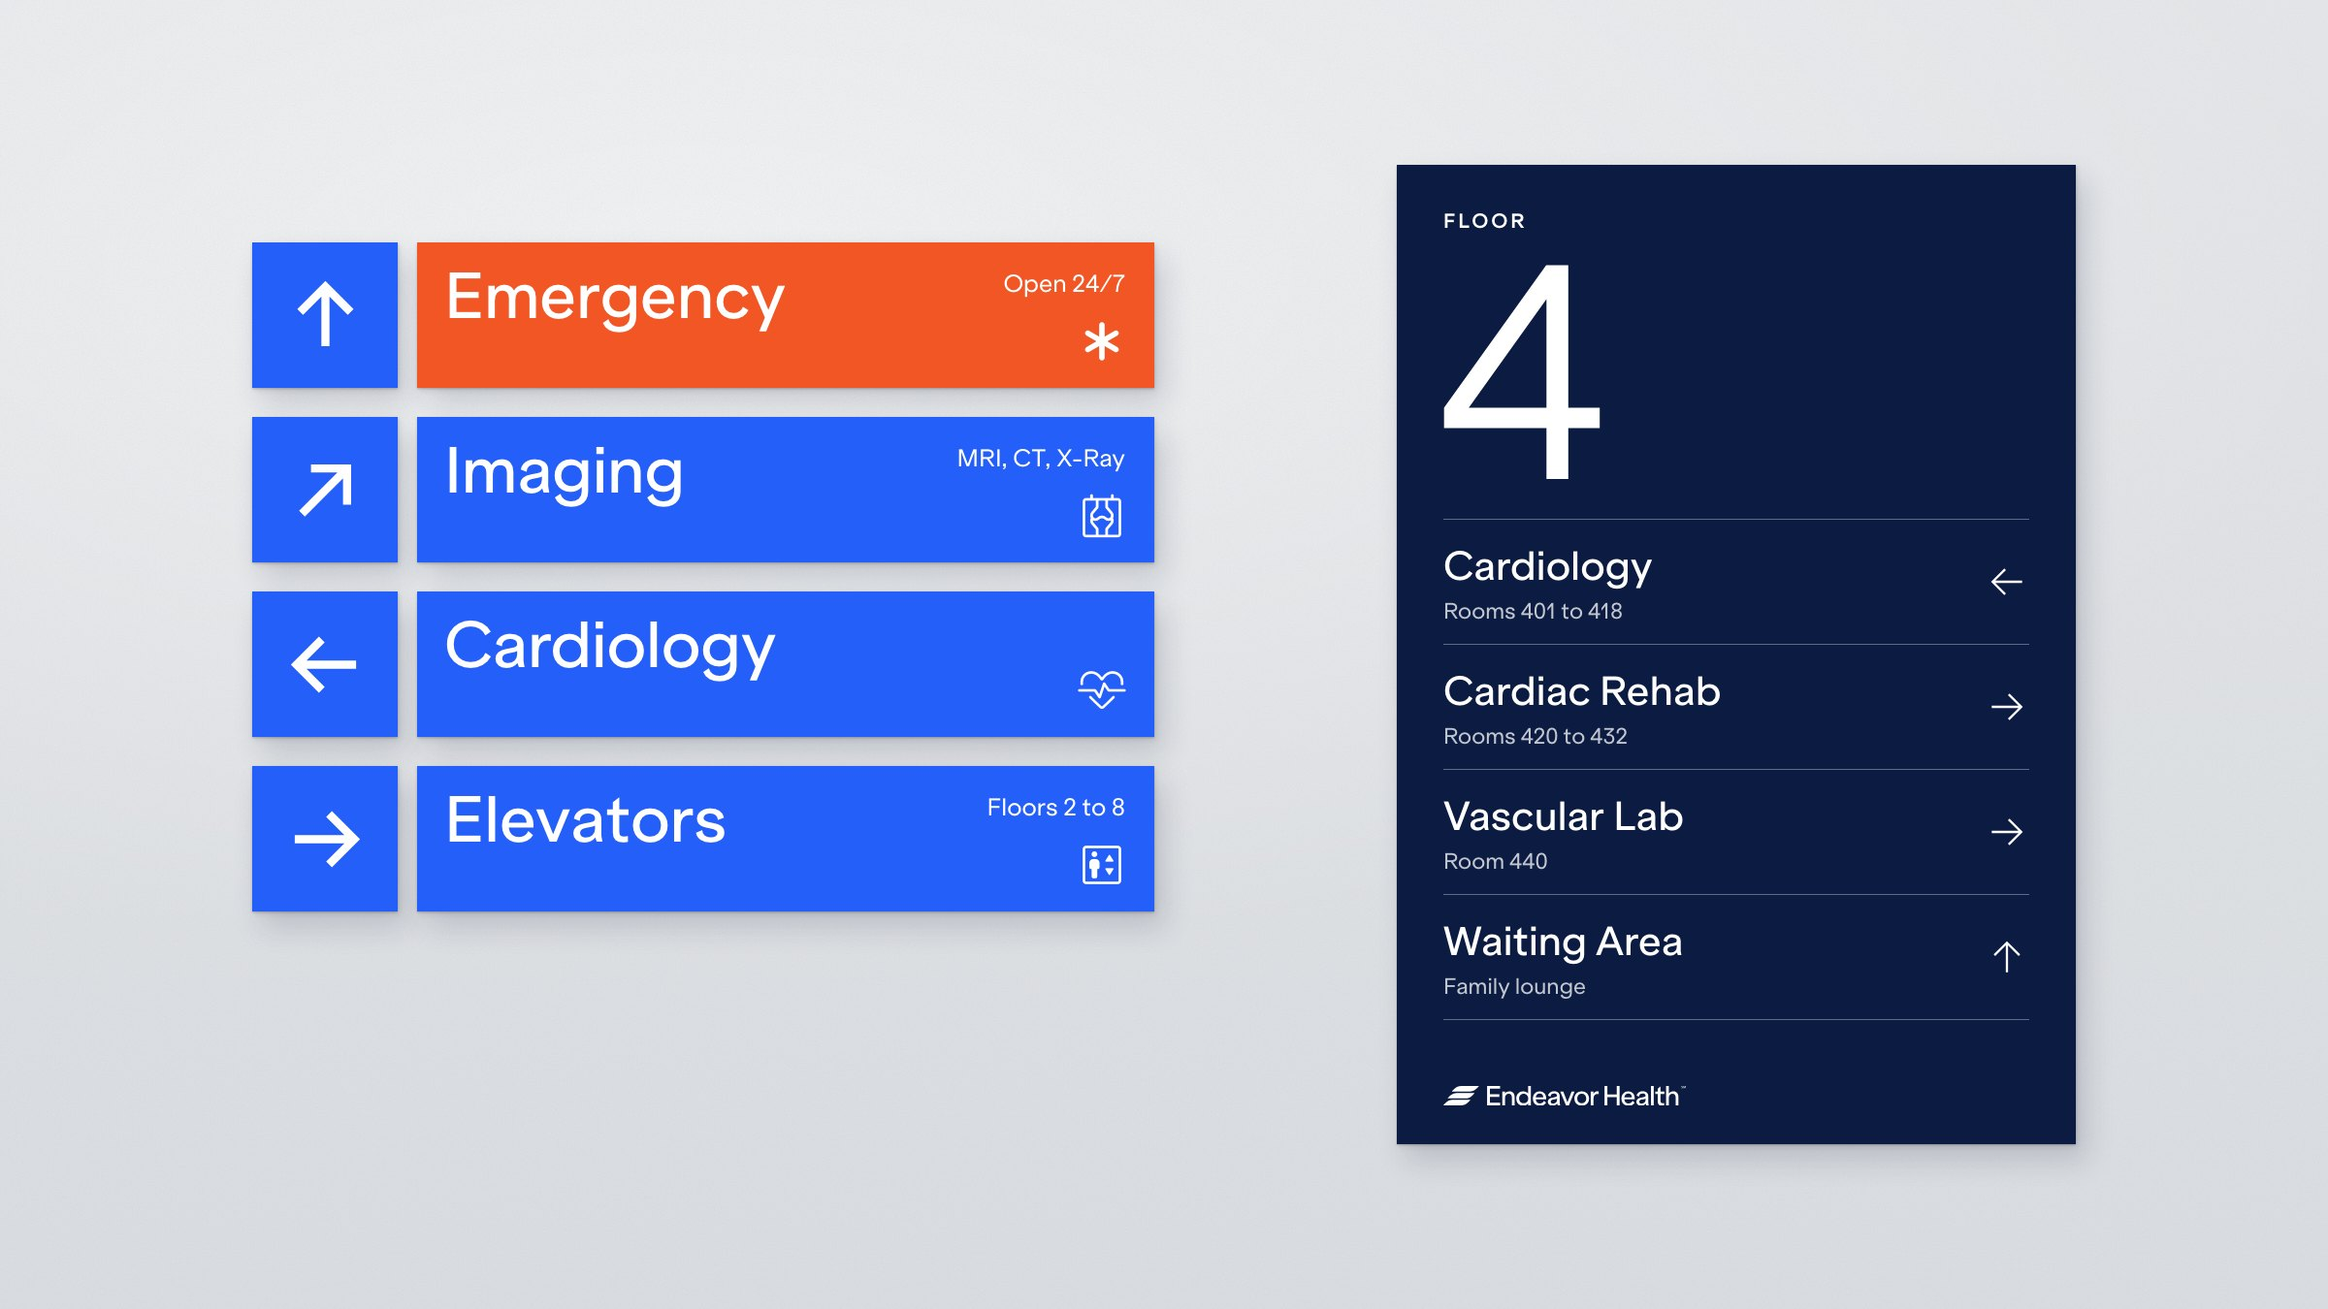
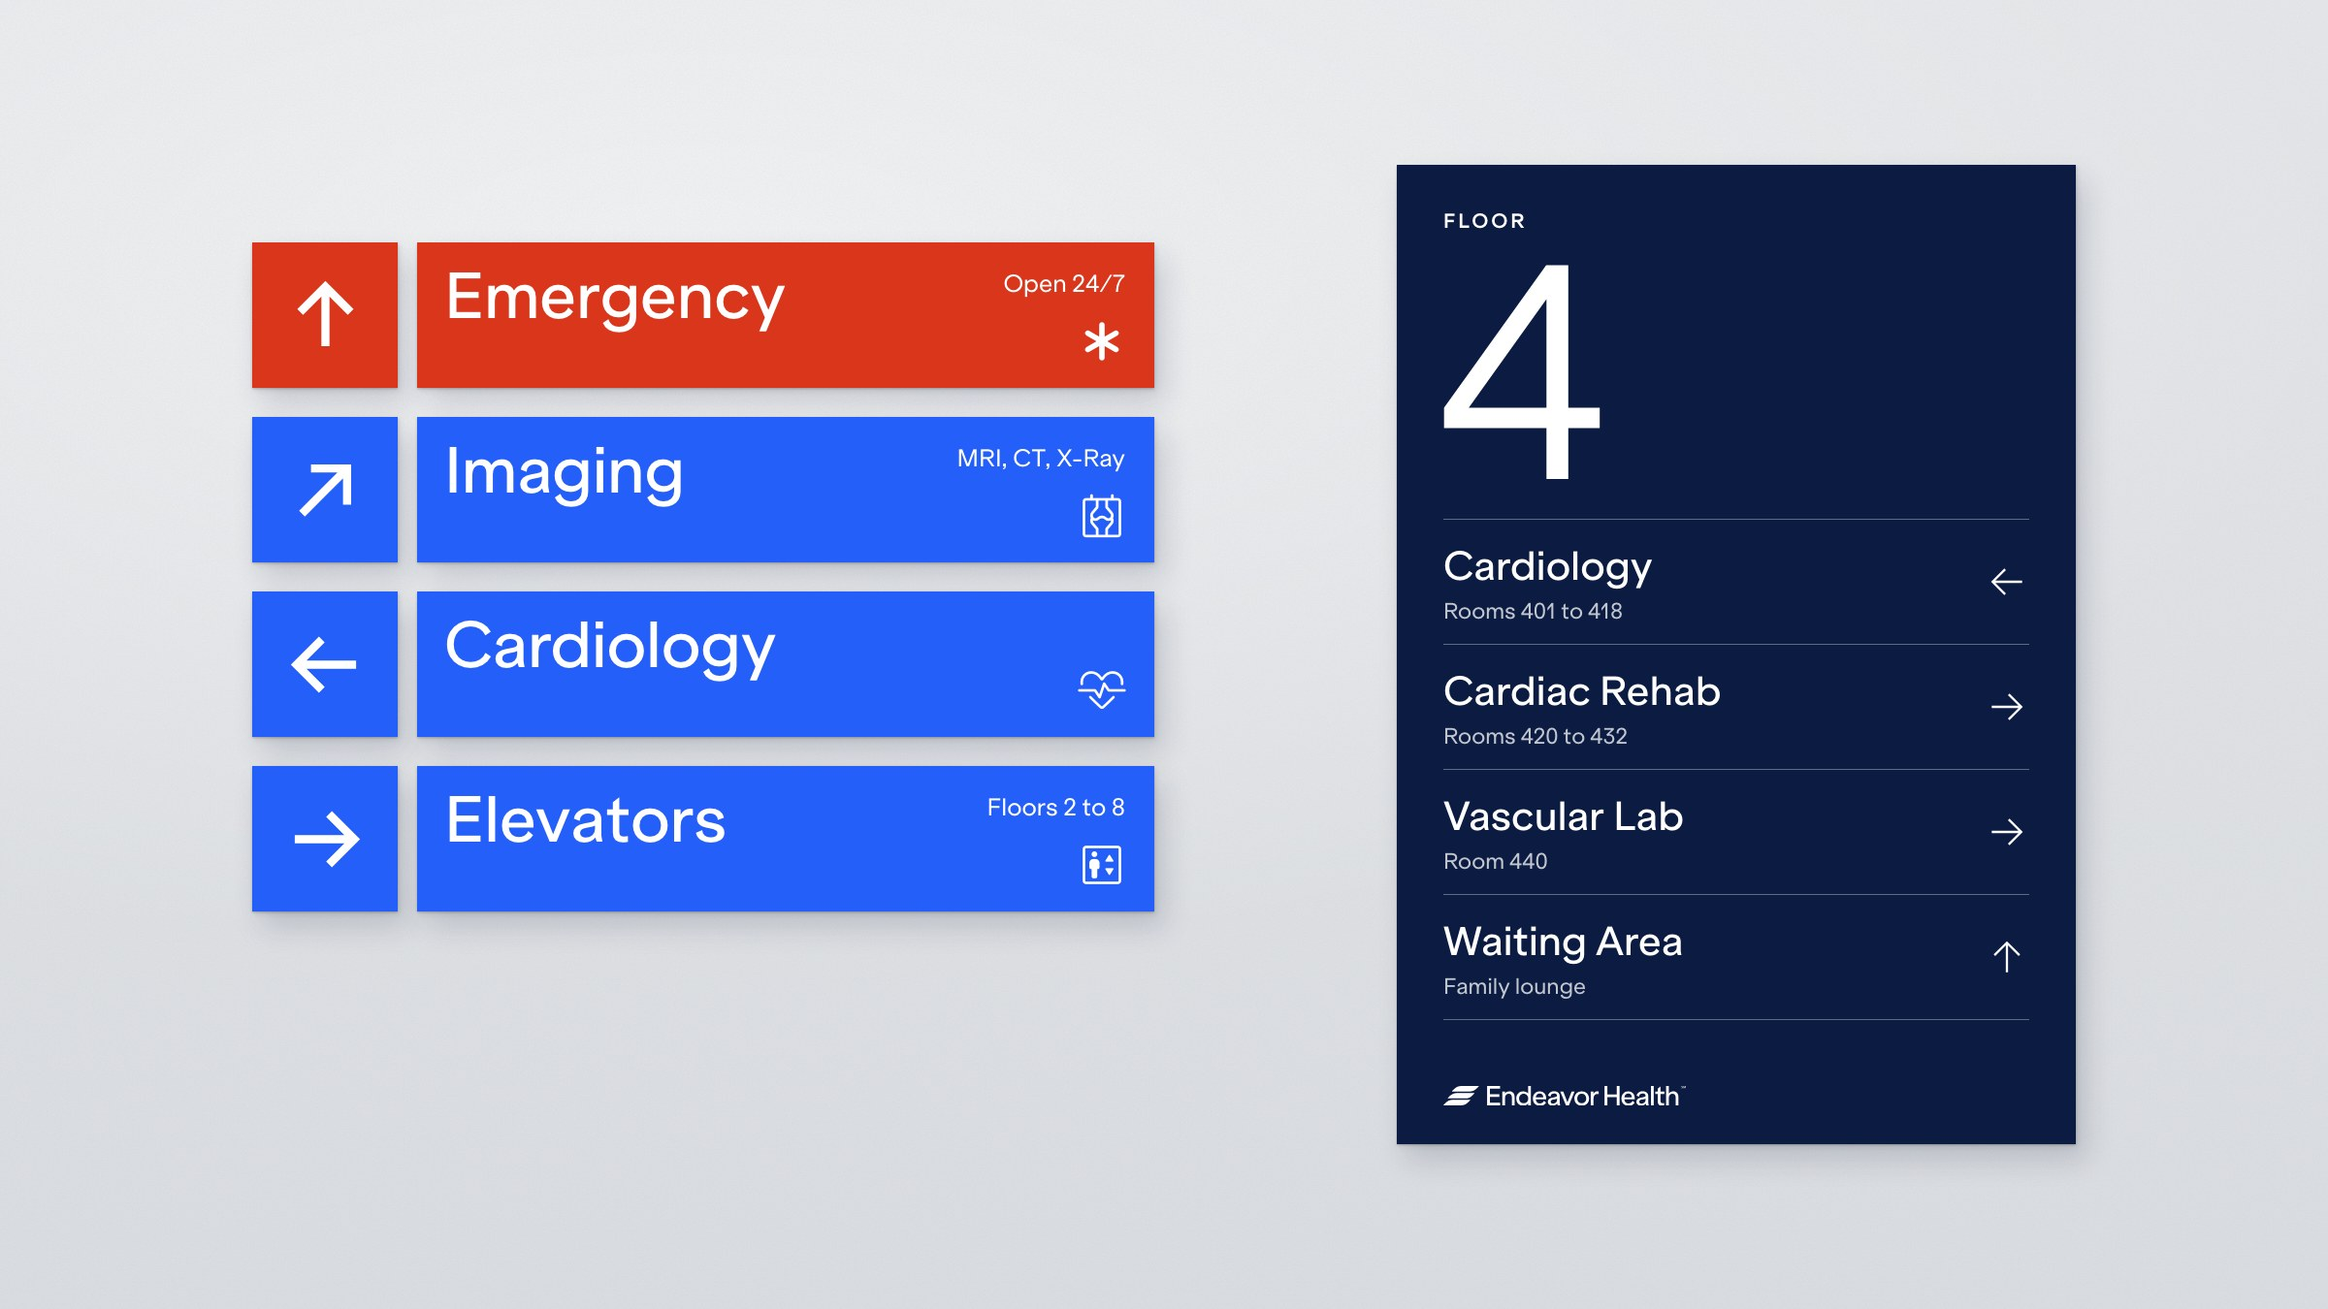
Use Emergency Red for emergency wayfinding and add wayfinding color guideline page

Changed region(s): [[0.0938, 0.1867, 0.5, 0.3111]]

diff --git a/tools/wayfinding/signs.html b/tools/wayfinding/signs.html
@@ -6,7 +6,7 @@
 @font-face{font-family:KL;font-weight:400;src:url("file:///Users/kennyphillips/Library/Fonts/ES%20Klarheit/ESKlarheitGrotesk-Bk.ttf")}
 @font-face{font-family:KL;font-weight:500;src:url("file:///Users/kennyphillips/Library/Fonts/ES%20Klarheit/ESKlarheitGrotesk-Md.ttf")}
 @font-face{font-family:KL;font-weight:700;src:url("file:///Users/kennyphillips/Library/Fonts/ES%20Klarheit/ESKlarheitGrotesk-Bd.otf")}
-:root{--blue:#235FF8;--sea:#0B1B42;--azure:#E1F5FC;--tangelo:#F15624;--sun:#FFCF30}
+:root{--blue:#235FF8;--sea:#0B1B42;--azure:#E1F5FC;--tangelo:#F15624;--sun:#FFCF30;--emergency:#D9361C}
 *{box-sizing:border-box;margin:0;padding:0}
 body{background:#fff;font-family:KL,sans-serif;color:#fff;-webkit-font-smoothing:antialiased}
 .ms{font-family:'Material Symbols Rounded';font-weight:300;font-style:normal;line-height:1;letter-spacing:normal;text-transform:none;white-space:nowrap;direction:ltr;-webkit-font-feature-settings:'liga';font-variation-settings:'FILL' 0,'wght' 300,'GRAD' 0,'opsz' 48}
@@ -32,7 +32,7 @@ body{background:#fff;font-family:KL,sans-serif;color:#fff;-webkit-font-smoothing
 .panel .name{font-weight:500;font-size:64px;letter-spacing:-.005em;line-height:1}
 .panel .meta{font-weight:400;font-size:24px;position:absolute;top:26px;right:30px}
 .panel .ico{position:absolute;right:26px;bottom:20px;font-size:56px}
-.panel.t{background:var(--tangelo)}
+.panel.t{background:var(--emergency)}
 .panel.sea{background:var(--sea)}
 
 /* ---------- directory ---------- */
@@ -83,7 +83,7 @@ body{background:#fff;font-family:KL,sans-serif;color:#fff;-webkit-font-smoothing
 <!-- ===================== COMPOSITION 1: lobby wall ===================== -->
 <div id="c-lobby" class="wall" style="width:2400px;height:1350px">
   <!-- directional stack -->
-  <div class="sign arrow" style="left:260px;top:250px;width:150px;height:150px"><svg><use href="#a-up"/></svg></div>
+  <div class="sign arrow" style="left:260px;top:250px;width:150px;height:150px;background:var(--emergency)"><svg><use href="#a-up"/></svg></div>
   <div class="sign panel t" style="left:430px;top:250px;width:760px;height:150px"><div class="name">Emergency</div><div class="meta">Open 24/7</div><span class="ms ico">emergency</span></div>
 
   <div class="sign arrow" style="left:260px;top:430px;width:150px;height:150px"><svg><use href="#a-ne"/></svg></div>
@@ -139,7 +139,7 @@ body{background:#fff;font-family:KL,sans-serif;color:#fff;-webkit-font-smoothing
     <div class="name">Emergency<br>Entrance</div>
     <div class="circle"><span class="ms">emergency</span></div>
   </div>
-  <div class="sign arrow" style="left:615px;top:140px;width:140px;height:140px;background:var(--tangelo)"><svg><use href="#a-r"/></svg></div>
+  <div class="sign arrow" style="left:615px;top:140px;width:140px;height:140px;background:var(--emergency)"><svg><use href="#a-r"/></svg></div>
   <div class="sign arrow" style="left:85px;top:140px;width:140px;height:140px"><svg><use href="#a-l"/></svg></div>
 </div>
 
@@ -154,6 +154,60 @@ body{background:#fff;font-family:KL,sans-serif;color:#fff;-webkit-font-smoothing
   </div>
 </div>
 
+
+<!-- ===================== GUIDELINE PAGE: wayfinding color (brandbook spread, 1100x850) ===================== -->
+<style>
+#g-color{width:1100px;height:850px;position:relative;background:#fff;color:#111;font-family:KL,sans-serif;overflow:hidden}
+#g-color .eb{position:absolute;left:25px;top:22px;font-weight:700;font-size:9px;letter-spacing:.06em;text-transform:uppercase}
+#g-color h1{position:absolute;left:25px;top:68px;font-weight:300;font-size:34px;line-height:1.15;letter-spacing:-.005em}
+#g-color .body{position:absolute;left:25px;top:228px;width:318px;font-weight:400;font-size:15px;line-height:1.48}
+#g-color .body p+p{margin-top:14px}
+#g-color .logo{position:absolute;left:25px;bottom:22px;width:155px;fill:#111}
+#g-color .logo .mk{fill:#235FF8}
+#g-color .rule{position:absolute;left:378px;top:0;bottom:0;width:1px;background:#d8d8d8}
+#g-color .sw{position:absolute;color:#fff;padding:14px 14px}
+#g-color .sw .nm{font-weight:400;font-size:17px}
+#g-color .sw .role{font-weight:400;font-size:11px;margin-top:4px;opacity:.9}
+#g-color .sw .spec{position:absolute;left:14px;bottom:14px;font-size:11px;line-height:1.75;font-weight:400}
+#g-color .demo{position:absolute;left:379px;top:560px;width:721px;height:290px;background:#E1F5FC}
+#g-color .demo .cap{position:absolute;left:0;right:0;bottom:22px;text-align:center;font-size:12px;color:#0B1B42}
+#g-color .chip{position:absolute;font-size:11px;font-weight:400;color:#0B1B42}
+</style>
+<div id="g-color">
+  <div class="eb">9 Applications</div>
+  <h1>Wayfinding<br>color</h1>
+  <div class="body">
+    <p>Wayfinding uses the core palette with one addition. Emergency Red is reserved for emergency wayfinding only.</p>
+    <p>It marks the Emergency department, emergency entrances, and every route that leads to them, so the one destination that has to be found fastest never competes with anything else on the wall.</p>
+    <p>Pair it with white type and white icons only. White on Emergency Red passes WCAG AA at 4.67 to 1. Never use it for general departments, marketing, or decoration.</p>
+  </div>
+  <img class="logo" src="../../images/endeavor-logo.svg" alt="">
+  <div class="rule"></div>
+
+  <div class="sw" style="left:379px;top:0;width:361px;height:560px;background:#D9361C">
+    <div class="nm">Emergency Red</div><div class="role">(Wayfinding only)</div>
+    <div class="spec">HEX #D9361C<br>RGB 217/54/28<br>CMYK 0/75/87/15<br>Pantone C 485 C (nearest)</div>
+  </div>
+  <div class="sw" style="left:740px;top:0;width:180px;height:560px;background:#235FF8">
+    <div class="nm">Endeavor Blue</div><div class="role">(Directional)</div>
+    <div class="spec">HEX #235FF8<br>Pantone C 285 C</div>
+  </div>
+  <div class="sw" style="left:920px;top:0;width:180px;height:560px;background:#0B1B42">
+    <div class="nm">Deep Sea</div><div class="role">(Directories, overhead)</div>
+    <div class="spec">HEX #0B1B42<br>Pantone C 2767 C</div>
+  </div>
+
+  <div class="demo">
+    <div style="position:absolute;left:130px;top:58px;width:84px;height:84px;background:#D9361C;display:flex;align-items:center;justify-content:center"><svg viewBox="0 0 100 100" style="width:62%;height:62%;stroke:#fff;fill:none;stroke-width:9"><use href="#a-up"/></svg></div>
+    <div style="position:absolute;left:224px;top:58px;width:370px;height:84px;background:#D9361C;color:#fff;padding:12px 16px">
+      <div style="font-weight:500;font-size:34px;line-height:1">Emergency</div>
+      <div style="position:absolute;top:14px;right:16px;font-size:12px">Open 24/7</div>
+      <span class="ms" style="position:absolute;right:12px;bottom:8px;font-size:30px;color:#fff">emergency</span>
+    </div>
+    <div class="chip" style="left:130px;top:156px">Arrow module and panel, both in Emergency Red</div>
+    <div class="cap">Emergency Red appears only on emergency signage, with white type and icons</div>
+  </div>
+</div>
 <!-- logo symbol (white via fill) -->
 <svg width="0" height="0" style="position:absolute"><defs><symbol id="eh-logo" viewBox="0 0 1243 102"><path d="M12.0367 85.659L0.358168 97.3602C-0.407741 98.1276 0.135596 99.4459 1.22227 99.4459H90.5064C103.677 99.4459 116.312 94.2053 125.627 84.8719L137.305 73.1707C138.071 72.4033 137.528 71.085 136.441 71.085H47.1572C33.9862 71.085 21.352 76.3256 12.0367 85.659Z"/><path d="M55.772 14.783L44.0935 26.4842C43.3276 27.2516 43.871 28.57 44.9576 28.57H134.242C147.413 28.57 160.047 23.3294 169.362 13.9959L181.041 2.29474C181.807 1.52734 181.263 0.208984 180.177 0.208984H90.8926C77.7215 0.208984 65.0873 5.4496 55.772 14.783Z"/><path d="M33.8681 50.2264L22.1897 61.9276C21.4237 62.695 21.9671 64.0133 23.0538 64.0133H112.338C125.509 64.0133 138.143 58.7727 147.458 49.4393L159.137 37.7381C159.903 36.9707 159.36 35.6523 158.273 35.6523H68.9887C55.8177 35.6523 43.1834 40.893 33.8681 50.2264Z"/><path d="M223.86 0.144531H290.474V13.2494H238.425V42.7057H286.704V55.6793H238.425V86.3491H290.749V99.4539H223.866V0.144531H223.86Z"/><path d="M301.904 29.1872H315.926V38.9142C320.784 30.945 328.201 26.8916 338.714 26.8916C355.708 26.8916 365.141 37.832 365.141 56.0725V99.4404H351.119V58.7748C351.119 45.9389 345.862 39.7275 334.937 39.7275C323.206 39.7275 315.92 48.1033 315.92 61.3459V99.4469H301.898V29.1872H301.904Z"/><path d="M373.559 64.3172C373.559 43.2432 387.719 26.8917 409.027 26.8917C420.352 26.8917 428.849 31.483 434.38 38.3765V0.137695H448.403V99.4471H434.511V89.8513C428.98 96.8759 420.352 101.474 409.027 101.474C387.856 101.474 373.559 85.26 373.559 64.3172ZM434.917 64.3172C434.917 50.1302 425.209 39.5899 411.456 39.5899C397.702 39.5899 387.994 50.2613 387.994 64.3172C387.994 78.3731 397.165 88.6379 411.456 88.6379C425.746 88.6379 434.917 78.3665 434.917 64.3172Z"/><path d="M458.588 64.4548C458.588 42.8365 473.285 26.8916 493.512 26.8916C513.74 26.8916 527.088 41.6165 527.088 63.1037C527.088 64.8615 527.088 66.6193 526.82 68.7772H473.285C474.771 82.8265 483.536 89.451 494.724 89.451C505.106 89.451 511.848 85.2599 515.757 76.3462L526.139 85.3976C519.534 96.4757 507.26 101.474 494.449 101.474C472.604 101.474 458.582 86.2044 458.582 64.4548H458.588ZM512.123 58.2369V58.0992C512.123 46.3455 504.844 38.9142 493.244 38.9142C483.399 38.9142 475.307 45.2633 473.422 58.2369H512.123Z"/><path d="M535.409 81.2064C535.409 69.1838 544.58 62.4281 559.545 59.7258C579.635 56.2102 582.601 55.4034 582.601 48.6477C582.601 41.2164 575.72 38.1074 567.092 38.1074C556.979 38.1074 549.424 43.781 549.424 54.3212L536.751 49.4545C538.636 36.0807 551.048 26.8916 567.092 26.8916C585.16 26.8916 596.354 35.2674 596.354 50.8056V85.9354L598.645 99.4469H586.371L583.268 90.5267C578.012 97.6891 568.971 101.474 559.132 101.474C545.11 101.474 535.402 93.5045 535.402 81.2064H535.409ZM582.607 71.2106V64.3171C580.584 66.0749 576.676 66.8816 563.322 69.4528C555.368 70.9416 550.242 73.7751 550.242 80.5308C550.242 86.2044 554.556 90.5267 562.242 90.5267C575.459 90.5267 582.601 82.1509 582.601 71.204L582.607 71.2106Z"/><path d="M599.032 29.1875H614.54L635.978 83.3646L657.417 29.1875H672.52L643.395 99.4472H628.424L599.025 29.1875H599.032Z"/><path d="M671.683 64.1862C671.683 42.1612 688.002 26.8984 709.304 26.8984C730.605 26.8984 747.193 42.1677 747.193 64.1862C747.193 86.2047 730.743 101.474 709.304 101.474C687.865 101.474 671.683 86.2047 671.683 64.1862ZM732.635 64.1862C732.635 49.3236 722.927 39.7343 709.304 39.7343C695.681 39.7343 686.11 49.3236 686.11 64.1862C686.11 79.0488 696.087 88.5069 709.304 88.5069C722.521 88.5069 732.635 79.0488 732.635 64.1862Z"/><path d="M755.533 29.1874H769.555V41.0788C774.949 30.2696 783.852 27.7051 790.726 27.7051C792.886 27.7051 794.234 27.8428 796.257 28.3807V42.5677C793.829 41.8921 791.675 41.4855 789.109 41.4855C777.646 41.4855 769.555 48.6479 769.555 65.3995V99.4471H755.533V29.1874Z"/><path d="M888.952 56.6173H840.811V99.4473H826.246V0.144531H840.811V43.6502H888.952V0.144531H903.517V99.4539H888.952V56.6238V56.6173Z"/><path d="M912.885 64.4548C912.885 42.8365 927.582 26.8916 947.809 26.8916C968.037 26.8916 981.385 41.6165 981.385 63.1037C981.385 64.8615 981.385 66.6193 981.117 68.7772H927.582C929.068 82.8265 937.833 89.451 949.021 89.451C959.403 89.451 966.145 85.2599 970.054 76.3462L980.436 85.3976C973.831 96.4757 961.557 101.474 948.746 101.474C926.901 101.474 912.879 86.2044 912.879 64.4548H912.885ZM966.42 58.2369V58.0992C966.42 46.3455 959.141 38.9142 947.541 38.9142C937.696 38.9142 929.604 45.2633 927.719 58.2369H966.42Z"/><path d="M989.705 81.2064C989.705 69.1838 998.876 62.4281 1013.84 59.7258C1033.93 56.2102 1036.9 55.4034 1036.9 48.6477C1036.9 41.2164 1030.02 38.1074 1021.39 38.1074C1011.27 38.1074 1003.72 43.781 1003.72 54.3212L991.047 49.4545C992.932 36.0807 1005.34 26.8916 1021.39 26.8916C1039.46 26.8916 1050.65 35.2674 1050.65 50.8056V85.9354L1052.94 99.4469H1040.67L1037.56 90.5267C1032.31 97.6891 1023.27 101.474 1013.43 101.474C999.407 101.474 989.698 93.5045 989.698 81.2064H989.705ZM1036.9 71.2106V64.3171C1034.88 66.0749 1030.97 66.8816 1017.62 69.4528C1009.66 70.9416 1004.54 73.7751 1004.54 80.5308C1004.54 86.2044 1008.85 90.5267 1016.54 90.5267C1029.75 90.5267 1036.9 82.1509 1036.9 71.204L1036.9 71.2106Z"/><path d="M1064.59 0.144531H1078.61V99.4539H1064.59V0.144531Z"/><path d="M1099.29 79.5866V41.4856H1086.75V29.1875H1099.29V13.5181L1113.31 2.84668V29.1941H1133.27V41.4921H1113.31V77.7042C1113.31 86.7556 1116.82 88.3756 1124.1 88.3756C1126.26 88.3756 1129.9 87.969 1132.05 87.4311V99.8604C1129.89 100.674 1124.23 101.212 1122.08 101.212C1107.24 101.212 1099.29 95.1314 1099.29 79.5932V79.5866Z"/><path d="M1142.04 0.144531H1156.06V38.7834C1160.37 31.621 1167.52 26.892 1178.84 26.892C1195.84 26.892 1205.27 37.8324 1205.27 56.0729V99.4408H1191.25V58.7752C1191.25 45.9393 1185.99 39.7279 1175.07 39.7279C1163.34 39.7279 1156.05 47.6971 1156.05 61.3463V99.4473H1142.03V0.144531H1142.04Z"/><path d="M1230.89 11.3831V0.0961948H1233.92L1236.95 8.78586L1240.07 0.0961948H1243V11.3831H1240.94V5.29076C1240.94 4.79909 1240.95 4.3288 1240.97 3.87989C1240.99 3.4096 1241.01 3.01413 1241.04 2.69348H1240.91L1237.65 11.3831H1235.95L1232.86 2.69348H1232.73C1232.77 3.0355 1232.79 3.43098 1232.79 3.87989C1232.81 4.3288 1232.83 4.77771 1232.83 5.22663V11.3831H1230.89ZM1223.65 11.4793C1222.94 11.4793 1222.25 11.4045 1221.59 11.2549C1220.92 11.1052 1220.41 10.9342 1220.04 10.7418V8.78586C1220.56 9.04239 1221.14 9.26684 1221.78 9.45923C1222.42 9.65162 1223.04 9.74782 1223.62 9.74782C1224.28 9.74782 1224.83 9.65162 1225.26 9.45923C1225.71 9.24546 1225.93 8.83931 1225.93 8.24076C1225.93 7.8346 1225.79 7.52463 1225.51 7.31086C1225.26 7.07572 1224.69 6.79782 1223.81 6.47717C1223.01 6.17789 1222.37 5.87862 1221.88 5.57934C1221.4 5.25869 1221.05 4.89529 1220.81 4.48913C1220.6 4.08297 1220.49 3.60199 1220.49 3.04619C1220.49 2.23388 1220.79 1.52844 1221.39 0.929891C1222.02 0.309964 1223 0 1224.36 0C1224.98 0 1225.6 0.0748185 1226.22 0.224455C1226.87 0.352716 1227.41 0.523731 1227.87 0.7375L1227.32 2.43695C1226.91 2.26594 1226.46 2.10561 1225.97 1.95598C1225.49 1.80634 1224.96 1.73152 1224.36 1.73152C1223.75 1.73152 1223.31 1.8384 1223.04 2.05217C1222.76 2.26594 1222.62 2.58659 1222.62 3.01413C1222.62 3.33478 1222.69 3.60199 1222.84 3.81576C1222.99 4.00815 1223.25 4.18985 1223.62 4.36087C1224 4.53188 1224.53 4.74565 1225.19 5.00217C1225.94 5.28007 1226.52 5.57934 1226.93 5.9C1227.34 6.19927 1227.63 6.5413 1227.8 6.92608C1227.97 7.28949 1228.06 7.72771 1228.06 8.24076C1228.06 8.98894 1227.88 9.60887 1227.51 10.1005C1227.17 10.5708 1226.66 10.9235 1226 11.1587C1225.33 11.3725 1224.55 11.4793 1223.65 11.4793Z"/></symbol></defs></svg>
 </body></html>

diff --git a/endeavor-health.html b/endeavor-health.html
@@ -184,7 +184,7 @@
   </div>
 
   <div class="case-note" style="padding-top: clamp(2rem, 5vw, 4rem);">
-    <p class="project-aa-body">Wayfinding has to work for someone who is scared, rushed, or both. Every sign is built from the same parts, a blue panel, a destination in Klarheit Medium, an icon in the corner, and a separate arrow module, so a direction can change without remaking the sign. Tangelo is held back for Emergency, the one place on campus that has to be found in&nbsp;seconds.</p>
+    <p class="project-aa-body">Wayfinding has to work for someone who is scared, rushed, or both. Every sign is built from the same parts, a blue panel, a destination in Klarheit Medium, an icon in the corner, and a separate arrow module, so a direction can change without remaking the sign. A dedicated Emergency Red, warmer and darker than the brand&rsquo;s Tangelo so white type stays legible, is held back for the one place on campus that has to be found in&nbsp;seconds.</p>
   </div>
 
   <div class="images">
@@ -200,6 +200,9 @@
       </picture>
       <picture>
         <img src="images/endeavor-wayfinding-overhead.jpg" alt="Endeavor Health overhead sign pointing to the main lobby, cardiology and elevators" />
+      </picture>
+      <picture>
+        <img src="images/endeavor-wayfinding-color.jpg" alt="Endeavor Health guideline page for wayfinding color, adding Emergency Red for emergency signage only" />
       </picture>
     </div>
   </div>
